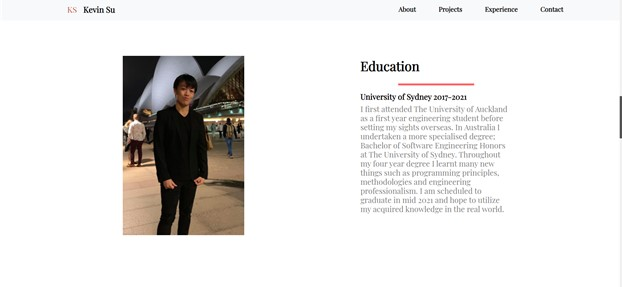
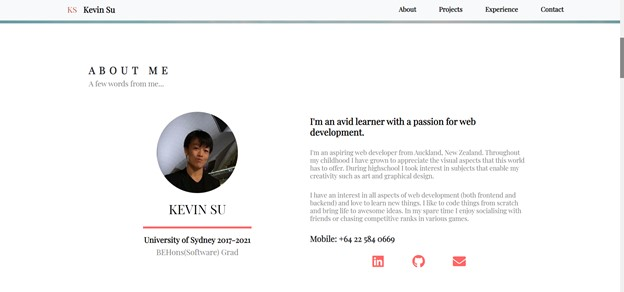
redesign final

diff --git a/src/App.js b/src/App.js
@@ -29,36 +29,43 @@ import Card from 'react-bootstrap/Card';
 function App() {
   return (
     <div className="App">
-      <div style = {{backgroundColor: "#ffffff", minHeight:"1000px"}} id = "top">
-        <div class = "imagecontainer">
-            <img src={mountain} alt="Logo" style = {{width:"101%", height:"50%"}}/>
-            <div class = "centered" style = {{color:"white", textAlign:"left"}}>
-               <h5 class = "titleani" style = {{fontSize: "2vw", fontFamily: "Playfair Display"}}>Hi I'm </h5>
-               <h5 class = "titleani" style = {{fontSize: "6vw", fontFamily: "Playfair Display", fontWeight:"bold", color:"#ff6666"}}>KEVIN SU</h5>
-               <h5 class = "titleani" style = {{fontSize:"2vw", fontFamily: "Playfair Display"}}>An avid learner with a passion for web development</h5>
-            </div>
-            <div class = "centered" style = {{marginTop:"15%"}}>
-                <div class = "zoom">
-                    <a href="#about"><i class="fas fa-chevron-down" style = {{color:"white"}} id = "about"></i></a>
+        <div class = "row" style = {{height:"800px"}}>
+            <div class = "column" style = {{height:"100%"}}>
+                <div class = "parallax2">
+                    <div class = "centered" style = {{color:"white", textAlign:"left"}}>
+                       <h5 style = {{fontSize: "6vw", fontFamily: "Playfair Display", fontWeight:"bold", color:"white", letterSpacing:"1vw"}}>KEVIN SU</h5>
+                       <hr style = {{width: "50%", backgroundColor: "#ff6666", height:"5px"}}></hr>
+                       <h5 style = {{fontSize:"2vw", fontFamily: "Playfair Display"}}>Welcome to my portfolio!</h5>
+                    </div>
+                    <div class = "centered" style = {{marginTop:"15%"}}>
+                        <div class = "zoom">
+                            <a href="#about"><i class="fas fa-chevron-down" style = {{color:"white"}}></i></a>
+                        </div>
+                    </div>
                 </div>
             </div>
         </div>
-        <div class = "row" style = {{backgroundColor:"#ffffff", marginTop:"100px"}} >
+        <div class = "row" style = {{backgroundColor:"#ffffff"}} id = "about">
             <div class = "row70" >
-                <div class = "column" style = {{justifyContent:"center", alignItems:"center"}}>
-                    <img src={profileImg} alt="Logo" style = {{borderRadius:"50%", width:"200px", height:"200px"}}/>
+                <div class = "column" style = {{textAlign:"left", marginTop:"100px"}}>
+                    <h5 style = {{fontSize: "25px", fontFamily: "Playfair Display", fontWeight:"bold", letterSpacing:"10px"}}>ABOUT ME</h5>
+                    <h5 style = {{fontSize: "18px", fontFamily: "Playfair Display", color:"#808080"}}>A few words from me...</h5>
                 </div>
-
             </div>
         </div>
-        <div class = "row" style = {{backgroundColor:"#ffffff", marginTop:"50px"}}>
-            <div class = "row50">
-                <div class = "column">
-                   <h5 style = {{fontSize: "1.5em", fontFamily: "Playfair Display"}}>A Few Words About Me</h5>
-                   <hr style = {{width: "50%", backgroundColor: "#ff6666", height:"5px"}}></hr>
-
-                   <h5 style = {{textAlign: "center", fontSize:"22px", fontFamily: "Playfair Display", color:"black"}}>Hi, I'm an aspiring web developer from Auckland, New Zealand. Throughout my childhood I have grown to appreciate the visual aspects that this world has to offer. During highschool I took interest in subjects that enable my creativity such as art and graphical design.</h5>
-                   <h5 style = {{textAlign: "center", fontSize:"18px", fontFamily: "Playfair Display", color:"#808080", marginTop:"20px"}}>I have an interest in all aspects of web development (both frontend and backend) and love to learn new things. I like to code things from scratch and bring life to awesome ideas. In my spare time I enjoy socialising with friends or chasing competitive ranks in various games.</h5>
+        <div class = "row" style = {{backgroundColor:"#ffffff", marginTop:"50px", marginBottom:"80px"}}>
+            <div class = "row70">
+                <div class = "column" style = {{color:"black", alignItems:"center"}}>
+                      <img src={me} alt="Logo" style = {{width:"200px", height:"200px", borderRadius:"50%"}}/>
+                      <h5 style = {{fontSize: "2em", fontFamily: "Playfair Display", marginTop:"20px"}}>KEVIN SU</h5>
+                      <hr style = {{width: "50%", backgroundColor: "#ff6666", height:"5px"}}></hr>
+                      <h5 style = {{textAlign: "left", fontSize:"1.2em", fontFamily: "Playfair Display", fontWeight:"bold"}}>University of Sydney 2017-2021</h5>
+                      <h5 style = {{textAlign: "left", fontSize:"1.2em", fontFamily: "Playfair Display", color:"#808080"}}>BEHons(Software) Grad</h5>
+                </div>
+                <div class = "column" style = {{textAlign:"left", padding:"10px"}}>
+                   <h5 style = {{fontSize:"22px", fontFamily: "Playfair Display", color:"black", fontWeight:"bold"}}>I'm an avid learner with a passion for web development.</h5>
+                   <h5 style = {{fontSize:"1em", fontFamily: "Playfair Display", color:"#808080", marginTop:"20px"}}>I'm an aspiring web developer from Auckland, New Zealand. Throughout my childhood I have grown to appreciate the visual aspects that this world has to offer. During highschool I took interest in subjects that enable my creativity such as art and graphical design.</h5>
+                   <h5 style = {{fontSize:"1em", fontFamily: "Playfair Display", color:"#808080", marginTop:"20px"}}>I have an interest in all aspects of web development (both frontend and backend) and love to learn new things. I like to code things from scratch and bring life to awesome ideas. In my spare time I enjoy socialising with friends or chasing competitive ranks in various games.</h5>
                    <h5 style = {{fontFamily: "Playfair Display", marginTop:"20px", fontWeight:"bold"}}>Mobile: +64 22 584 0669</h5>
                    <div class = "zoomDiv" style = {{alignItems:"center", justifyContent:"center", textAlign:"center"}}>
                        <div class = "zoom2">
@@ -74,53 +81,15 @@ function App() {
                 </div>
             </div>
         </div>
-        <div class = "row" style = {{backgroundColor:"#ffffff", marginTop:"50px"}}>
-            <div class = "row50" style = {{backgroundColor:"#e7e7e7", color:"black"}}>
-                <div class = "column">
-                   <h5 style = {{fontSize: "1.5em", fontFamily: "Playfair Display", letterSpacing:"5px"}}>IN SHORT I AM ...</h5>
-                </div>
-            </div>
-        </div>
-        <div class = "row" style = {{backgroundColor:"#ffffff"}}>
-            <div class = "row50" style = {{backgroundColor:"#e7e7e7", color:"black"}}>
-                <div class = "column" style = {{padding:"10px"}}>
-                   <i class="fas fa-code fa-4x" style = {{color:"white"}}></i>
-                   <h5 style = {{fontSize: "15px", fontFamily: "Playfair Display", marginTop:"20px"}}>PASSIONATE WEB DEVELOPER</h5>
-                </div>
-                <div class = "column" style = {{padding:"10px"}}>
-                   <i class="fas fa-edit fa-4x" style = {{color:"white"}}></i>
-                   <h5 style = {{fontSize: "15px", fontFamily: "Playfair Display", marginTop:"20px"}}>ART / UX ADMIRER</h5>
-                </div>
-                <div class = "column" style = {{padding:"10px", textAlign:"center", alignItems:"center", justifyContent:"center"}}>
-                   <h5 style = {{fontSize: "15px", fontFamily: "Playfair Display"}}>AND LEAST IMPORTANTLY...</h5>
-                </div>
-                <div class = "column" style = {{padding:"10px", justifyContent:"center", alignItems:"center"}}>
-                   <img src={chally} alt="Logo" style = {{borderRadius:"50%", width:"80px", height:"80px"}}/>
-                   <h5 style = {{fontSize: "15px", fontFamily: "Playfair Display", marginTop:"20px"}}>OCE's GREATEST TFT PLAYER</h5>
-                </div>
-            </div>
-        </div>
-        <div class = "row" style = {{backgroundColor:"#ffffff"}}>
-            <div class = "row80">
-               <div class = "column" style = {{color:"black", justifyContent:"center", alignItems:"center", padding:"10%"}}>
-                   <img src={me} alt="Logo" style = {{width:"80%", marginTop:"5%"}}/>
-               </div>
-               <div class = "column" style = {{color:"black", textAlign:"left", padding:"10%"}}>
-                   <br></br>
-                   <h5 style = {{fontSize: "2em", fontFamily: "Playfair Display"}}>EDUCATION</h5>
-                   <hr style = {{width: "50%", backgroundColor: "#ff6666", height:"5px"}}></hr>
-                   <h5 style = {{textAlign: "left", fontSize:"1.2em", fontFamily: "Playfair Display", color:"black", fontWeight:"bold"}}>University of Sydney 2017-2021</h5>
-                   <h5 style = {{textAlign: "left", fontSize:"1.2em", fontFamily: "Playfair Display", color:"black", fontWeight:"bold"}}>BEHons(Software)</h5>
-                   <h5 style = {{textAlign: "left", fontSize:"1.2em", fontFamily: "Playfair Display", color:"#808080"}}> I first attended The University of Auckland as a first year engineering student before setting my sights overseas. In Australia I undertaken a more specialised degree; Bachelor of Software Engineering Honors at The University of Sydney. Throughout my four year degree I learnt many new things such as
-                   programming principles, methodologies and engineering professionalism. I am scheduled to graduate in mid 2021 and hope to utilize my acquired knowledge in the real world.</h5>
-                   <br></br>
-               </div>
+        <div class = "row">
+            <div class = "column">
+                <div class = "parallax2" style = {{height:"100px"}}></div>
             </div>
         </div>
         <div class = "row70" style = {{marginTop:"100px", textAlign:"left"}}>
             <div class = "column">
-                <h5 style = {{fontSize: "3em", fontFamily: "Playfair Display", fontWeight:"bold", letterSpacing:"12px"}}>SKILLS</h5>
-                <h5 style = {{fontSize: "1.5em", fontFamily: "Playfair Display", color:"#808080"}}>I have experience in the following...</h5>
+                <h5 style = {{fontSize: "25px", fontFamily: "Playfair Display", fontWeight:"bold", letterSpacing:"10px"}}>SKILLS</h5>
+                <h5 style = {{fontSize: "18px", fontFamily: "Playfair Display", color:"#808080"}}>Aside from inverting a binary tree, I also have experience in...</h5>
                 <hr style = {{width: "50%", backgroundColor: "#ff6666", height:"5px"}}></hr>
             </div>
         </div>
@@ -130,59 +99,62 @@ function App() {
                       <div class = "zoom3">
                         <i class="fa fa-database fa-5x"></i>
                       </div>
-                      <h5 style = {{textAlign: "center", fontFamily: "Playfair Display", marginTop:"20px"}}>Database</h5>
+                      <h5 style = {{textAlign: "center", fontFamily: "Playfair Display", marginTop:"20px", fontWeight:"bold"}}>Database</h5>
                       <h5 style = {{textAlign: "center", fontFamily: "Playfair Display"}}>MySQL</h5>
                   </div>
                   <div class = "column" style = {{justifyContent:"center", alignItems:"center"}}>
                       <div class = "zoom3">
                           <i class="fab fa-python fa-5x"></i>
                         </div>
-
-                      <h5 style = {{textAlign: "center", fontFamily: "Playfair Display", marginTop:"20px"}}>Python</h5>
+                      <h5 style = {{textAlign: "center", fontFamily: "Playfair Display", marginTop:"20px", fontWeight:"bold"}}>Python</h5>
                       <h5 style = {{textAlign: "center", fontFamily: "Roboto"}}>React, Django, Axios</h5>
                   </div>
                   <div class = "column" style = {{justifyContent:"center", alignItems:"center"}}>
                       <div class = "zoom3">
                         <i class="fab fa-html5 fa-5x"></i>
                       </div>
-                      <h5 style = {{textAlign: "center", fontFamily: "Playfair Display", marginTop:"20px"}}>Web Dev</h5>
+                      <h5 style = {{textAlign: "center", fontFamily: "Playfair Display", marginTop:"20px", fontWeight:"bold"}}>Web Dev</h5>
                       <h5 style = {{textAlign: "center", fontFamily: "Roboto", fontSize:"14px"}}>HTML, CSS, React, JS, C#/.Net</h5>
                   </div>
-                  <div class = "column" style = {{justifyContent:"center", alignItems:"center"}}>
+            </div>
+        </div>
+        <div class = "row" style = {{backgroundColor:"white", marginTop:"50px"}}>
+            <div class = "row70" style = {{backgroundColor:"white", textAlign:"center", color:"black"}}>
+                <div class = "column" style = {{justifyContent:"center", alignItems:"center"}}>
                       <div class = "zoom3">
                           <i class="fas fa-sitemap fa-5x"></i>
                         </div>
-                      <h5 style = {{textAlign: "center", fontFamily: "Playfair Display", marginTop:"20px"}}>ORM</h5>
+                      <h5 style = {{textAlign: "center", fontFamily: "Playfair Display", marginTop:"20px", fontWeight:"bold"}}>ORM</h5>
                       <h5 style = {{textAlign: "center", fontFamily: "Roboto"}}>Hibernate</h5>
                   </div>
                   <div class = "column" style = {{justifyContent:"center", alignItems:"center"}}>
                     <div class = "zoom3">
                       <i class="fas fa-code fa-5x"></i>
                     </div>
-                    <h5 style = {{textAlign: "center", fontFamily: "Playfair Display", marginTop:"20px"}}>Code</h5>
+                    <h5 style = {{textAlign: "center", fontFamily: "Playfair Display", marginTop:"20px", fontWeight:"bold"}}>Code</h5>
                     <h5 style = {{textAlign: "center", fontFamily: "Roboto"}}>C++, Java, MATLAB</h5>
                 </div>
                 <div class = "column" style = {{justifyContent:"center", alignItems:"center"}}>
                     <div class = "zoom3">
                       <i class="fas fa-users fa-5x"></i>
                     </div>
-                    <h5 style = {{textAlign: "center", fontFamily: "Playfair Display", marginTop:"20px"}}>Interpersonal</h5>
+                    <h5 style = {{textAlign: "center", fontFamily: "Playfair Display", marginTop:"20px", fontWeight:"bold"}}>Interpersonal</h5>
                     <h5 style = {{textAlign: "center", fontFamily: "Roboto", fontSize:"16px"}}>Friendly, Positive, Optimistic</h5>
                 </div>
             </div>
         </div>
-        <div class = "row" style = {{backgroundColor:"white", marginTop:"50px"}}>
+        <div class = "row" style = {{backgroundColor:"white", marginTop:"50px", marginBottom:"50px"}}>
             <div class = "row70" style = {{backgroundColor:"white", textAlign:"center", color:"black"}}>
                 <div class = "column" style = {{justifyContent:"center", alignItems:"center"}}>
                       <a class = "button" href="Resume.pdf">DOWNLOAD RESUME</a>
                   </div>
             </div>
         </div>
-        <div class = "row" style = {{backgroundColor:"#1e1e1e", minHeight:"100px", marginTop:"100px"}} id = "projects">
+        <div class = "row" style = {{backgroundColor:"#1e1e1e", minHeight:"100px"}} id = "projects">
             <div class = "row70" style = {{textAlign:"right", color:"white", marginTop:"100px"}} >
                 <div class = "column">
-                   <h5 style = {{fontSize: "3em", fontFamily: "Playfair Display", fontWeight:"bold", letterSpacing:"12px"}}>PROJECTS</h5>
-                   <h5 style = {{fontSize: "1.5em", fontFamily: "Playfair Display", color:"#808080"}}>A showcase containing some of the many projects I have developed</h5>
+                   <h5 style = {{fontSize: "25px", fontFamily: "Playfair Display", fontWeight:"bold", letterSpacing:"10px"}}>PROJECTS</h5>
+                   <h5 style = {{fontSize: "18px", fontFamily: "Playfair Display", color:"#808080"}}>A showcase containing some of the many projects I have developed</h5>
                 </div>
             </div>
         </div>
@@ -251,9 +223,9 @@ function App() {
                </div>
             </div>
         </div>
-        <div class = "row70" style = {{marginTop:"50px", textAlign:"left"}} id = "exp">
+        <div class = "row70" style = {{textAlign:"left"}} id = "exp">
             <div class = "column" style = {{marginTop:"50px", textAlign:"left"}}>
-                <h5 style = {{fontSize: "3em", fontFamily: "Playfair Display", fontWeight:"bold", letterSpacing:"12px"}}>EXPERIENCE</h5>
+                <h5 style = {{fontSize: "25px", fontFamily: "Playfair Display", fontWeight:"bold", letterSpacing:"10px", marginTop:"30px"}}>EXPERIENCE</h5>
             </div>
         </div>
         <div class = "row80" style = {{marginTop:"50px", textAlign:"left"}}>
@@ -300,7 +272,7 @@ function App() {
         <div class = "row" style = {{backgroundColor: "#c85349", marginTop:"50px"}} id = "con">
              <div class = "row70">
                 <div class = "column">
-                    <h3 style = {{color: "white", fontSize: "40px", marginTop:"50px"}}>Contact Me</h3>
+                    <h3 style = {{color: "white", fontSize: "25px", marginTop:"50px", letterSpacing:"10px"}}>CONTACT ME</h3>
                     <h3 style = {{textAlign: "left", marginTop:"50px"}}>  </h3>
                 </div>
              </div>
@@ -336,7 +308,6 @@ function App() {
 
             </div>
         </div>
-    </div>
   );
 }
 

diff --git a/src/App.css b/src/App.css
@@ -114,6 +114,34 @@
        }
    }
 
+.parallax {
+  /* The image used */
+  background-image: url('img/dark.jpg');
+
+  /* Full height */
+  height: 100%;
+
+  /* Create the parallax scrolling effect */
+  background-attachment: fixed;
+  background-position: center;
+  background-repeat: no-repeat;
+  background-size: cover;
+}
+
+.parallax2 {
+  /* The image used */
+  background-image: url('img/back.jpg');
+
+  /* Full height */
+  height: 100%;
+
+  /* Create the parallax scrolling effect */
+  background-attachment: fixed;
+  background-position: center;
+  background-repeat: no-repeat;
+  background-size: cover;
+}
+
 .row {
   display: flex;
   flex-direction: row;
